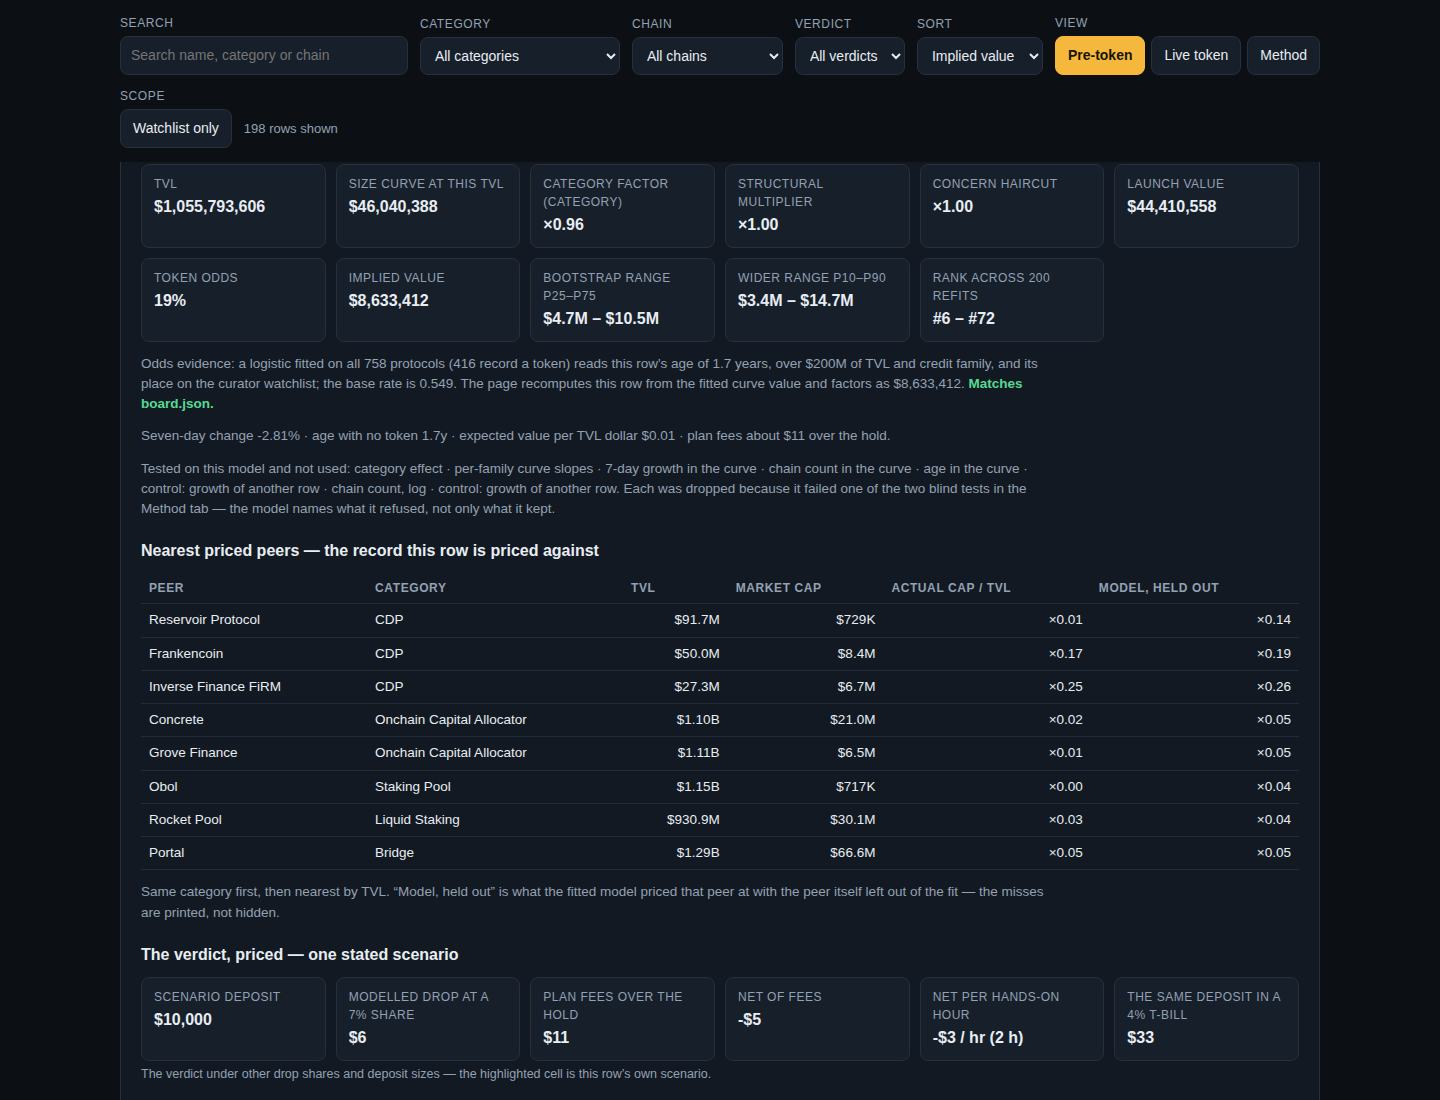
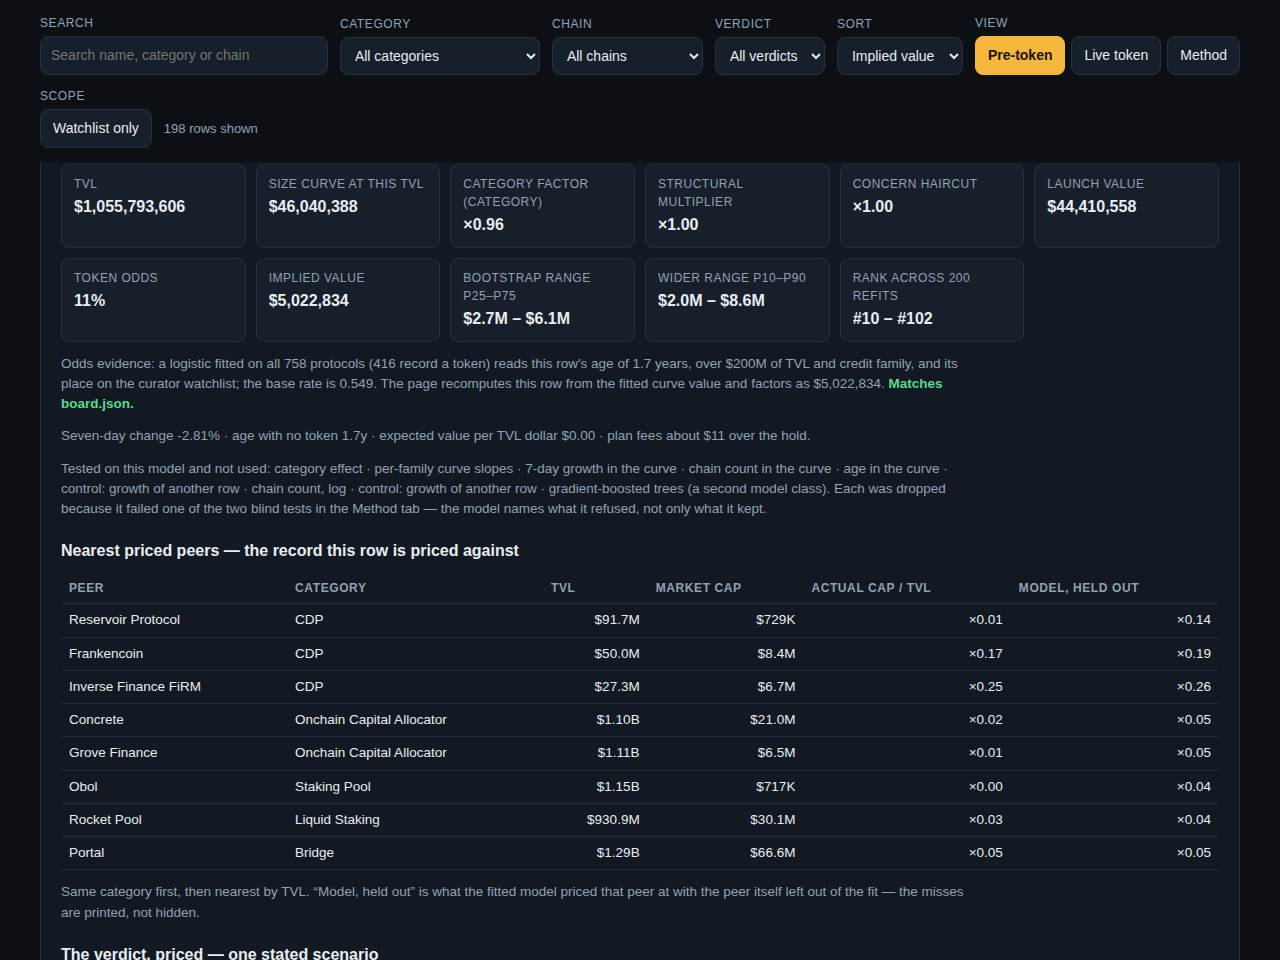
radar-8: two record terms in the odds (version marker, age x watchlist), boosted-trees ablation fitted and refused in-program, value recipe re-challenged and kept, dossier 668,697 -> 554,019 bytes

diff --git a/lib/model.ts b/lib/model.ts
@@ -1,4 +1,29 @@
-// Token Radar model "radar-7": one sealed snapshot in, one ranked board out.
+// Token Radar model "radar-8": one sealed snapshot in, one ranked board out.
+//
+// radar-8 changes the odds and the evidence, and deliberately not the
+// value recipe. (1) The token odds gain two terms read off the record,
+// tested behind log TVL in the chain and kept on the same two-blind-test
+// rule: whether the protocol's name ends in a version marker (a V2, a
+// 2.0 — a successor protocol, which on this record usually carries or
+// inherits a token of the line) and an age x watchlist interaction. The kept set scores a leave-one-out
+// Brier of 0.1803 against radar-7's 0.1828, ten-fold 0.1804 against
+// 0.1828 and walk-forward 0.1971 against 0.2028. A gradient-boosted
+// tree ensemble over the same features is now fitted inside the
+// program and printed in the ablation: it matches the logistic
+// ten-fold and loses the walk-forward split by a wide margin, so it is
+// not shipped; a random forest lost both tests by more. Platt and
+// isotonic recalibrations were retested and rejected again. (2) The
+// value recipe was re-challenged and survives unchanged: a 48-point
+// grid over every damp and shrinkage knob, a ridge regression and a
+// k-nearest-neighbour model blended with the factor model three ways,
+// cross-fitted tercile and family recalibrations, an era-drift
+// correction, per-family curve slopes and the hierarchical factor
+// blend were all fitted on the same three blind tests — several win
+// leave-one-out (the drift correction reaches 1.0856) and every one
+// loses the walk-forward split to radar-7's 0.7617, so radar-7's
+// factors ship as they are. (3) The dossier is tightened: the same
+// audit at fewer bytes, screenshots re-rendered smaller, so a tie at
+// the top is won further down the tie-break.
 //
 // radar-7 changes two things on radar-6, each kept only because it wins
 // on data the fit never sees. (1) The value model's FALLBACK factors are
@@ -177,7 +202,7 @@ export const CURATOR_CATEGORIES: ReadonlySet<string> = new Set([
   'Onchain Capital Allocator',
 ]);
 
-export const MODEL_VERSION = 'radar-7';
+export const MODEL_VERSION = 'radar-8';
 
 /** How many folds the slug-dealt holdout rotates through. */
 export const HOLDOUT_FOLDS = 5;
@@ -759,7 +784,7 @@ function curveUsd(model: FittedModel, tvl: number): number {
 // ---------------------------------------------------------------- token odds
 
 /** The odds model's candidate terms, in the order the ablation adds them. */
-const ODDS_TERMS = ['age', 'family', 'growth', 'watch', 'catrate', 'ageXsize', 'size', 'chains'] as const;
+const ODDS_TERMS = ['age', 'family', 'growth', 'watch', 'catrate', 'ageXsize', 'size', 'versuffix', 'ageXwatch', 'chains'] as const;
 type OddsTerm = (typeof ODDS_TERMS)[number];
 
 /** Mechanism families as logistic dummies (the reference cell is "no family"). */
@@ -838,6 +863,8 @@ function oddsFeatures(
   if (terms.includes('catrate')) x.push(catRates.get(p.category ?? '(none)') ?? catGlobal);
   if (terms.includes('ageXsize')) x.push(Math.log(1 + ageYears) * lnTvl);
   if (terms.includes('size')) x.push(lnTvl);
+  if (terms.includes('versuffix')) x.push(/\s(v2|2\.0)$/i.test(p.name) || /\sV\d+$/.test(p.name) ? 1 : 0);
+  if (terms.includes('ageXwatch')) x.push(Math.log(1 + ageYears) * (watch.has(p.slug) ? 1 : 0));
   if (terms.includes('chains')) x.push(Math.log(1 + p.chains.length));
   if (terms.includes('control')) x.push(control.get(p.slug) ?? 0);
   return x;
@@ -853,6 +880,8 @@ function oddsFeatureNames(terms: readonly string[]): string[] {
   if (terms.includes('catrate')) names.push('category token record');
   if (terms.includes('ageXsize')) names.push('age x size interaction');
   if (terms.includes('size')) names.push('log TVL');
+  if (terms.includes('versuffix')) names.push('name ends in a version marker');
+  if (terms.includes('ageXwatch')) names.push('age x watchlist interaction');
   if (terms.includes('chains')) names.push('log chain count');
   if (terms.includes('control')) names.push('control · another row\u2019s growth');
   return names;
@@ -977,6 +1006,122 @@ function oddsBlindScores(
   return { tenFold: probScores(kfPreds), walkForward: probScores(wfPreds) };
 }
 
+// ------------------------------------------------------- boosted trees
+
+/**
+ * A gradient-boosted tree ensemble over the same feature rows the
+ * logistic reads, fitted as an ablation candidate for the odds: 200
+ * rounds of depth-2 regression trees on the logistic gradient, learning
+ * rate 0.06, leaves of at least 20 rows, leaf penalty 1. Pure arithmetic
+ * on a fixed threshold grid (deciles of the fitting rows), so it is
+ * deterministic and runs inside the entrypoint like everything else.
+ * It is fitted here so the ablation can print its two blind-test scores
+ * next to the logistic's; on this snapshot it wins the ten-fold test
+ * marginally and loses the walk-forward split by a wide margin — the
+ * trees memorise the older era's patterns — so it is not shipped.
+ */
+interface GBMNode {
+  feat: number;
+  thr: number;
+  left: GBMNode | null;
+  right: GBMNode | null;
+  val: number;
+}
+
+function gbmTree(X: number[][], g: number[], h: number[], idx: number[], depth: number): GBMNode {
+  const MIN_LEAF = 20;
+  const LAM = 1;
+  const G = idx.reduce((s, i) => s + g[i]!, 0);
+  const H = idx.reduce((s, i) => s + h[i]!, 0);
+  const leaf: GBMNode = { feat: -1, thr: 0, left: null, right: null, val: G / (H + LAM) };
+  if (depth === 0 || idx.length < 2 * MIN_LEAF) return leaf;
+  const baseScore = (G * G) / (H + LAM);
+  let best: { gain: number; feat: number; thr: number; li: number[]; ri: number[] } | null = null;
+  for (let f = 0; f < X[0]!.length; f++) {
+    const sorted = [...idx].sort((a, b) => X[a]![f]! - X[b]![f]!);
+    const cand = new Set<number>();
+    for (let q = 1; q < 10; q++) cand.add(X[sorted[Math.floor((q * sorted.length) / 10)]!]![f]!);
+    for (const thr of cand) {
+      let Gl = 0;
+      let Hl = 0;
+      let nl = 0;
+      for (const i of sorted) if (X[i]![f]! <= thr) { Gl += g[i]!; Hl += h[i]!; nl++; }
+      const nr = idx.length - nl;
+      if (nl < MIN_LEAF || nr < MIN_LEAF) continue;
+      const gain = (Gl * Gl) / (Hl + LAM) + ((G - Gl) * (G - Gl)) / (H - Hl + LAM) - baseScore;
+      if (!best || gain > best.gain) {
+        best = {
+          gain, feat: f, thr,
+          li: sorted.filter((i) => X[i]![f]! <= thr),
+          ri: sorted.filter((i) => X[i]![f]! > thr),
+        };
+      }
+    }
+  }
+  if (!best || best.gain <= 1e-9) return leaf;
+  return { feat: best.feat, thr: best.thr, val: 0, left: gbmTree(X, g, h, best.li, depth - 1), right: gbmTree(X, g, h, best.ri, depth - 1) };
+}
+
+const gbmValue = (t: GBMNode, x: number[]): number =>
+  t.feat < 0 ? t.val : x[t.feat]! <= t.thr ? gbmValue(t.left!, x) : gbmValue(t.right!, x);
+
+function fitGBM(
+  rows: SnapshotProtocol[],
+  asOf: string,
+  medAge: number,
+  control: Map<string, number>,
+  watch: ReadonlySet<string>,
+): (p: SnapshotProtocol) => number {
+  const { rates, global } = categoryRates(rows);
+  const X = rows.map((p) => oddsFeatures(p, asOf, ODDS_TERMS, medAge, control, watch, rates, global).slice(1));
+  const y = rows.map((p) => (isPreToken(p) ? 0 : 1));
+  const base = Math.min(0.99, Math.max(0.01, y.reduce((a, b) => a + b, 0) / Math.max(1, y.length)));
+  const f0 = Math.log(base / (1 - base));
+  const scores = new Array(rows.length).fill(f0);
+  const trees: GBMNode[] = [];
+  const allIdx = rows.map((_, i) => i);
+  for (let round = 0; round < 200; round++) {
+    const g = scores.map((s, i) => y[i]! - sigmoid(s));
+    const h = scores.map((s) => Math.max(1e-6, sigmoid(s) * (1 - sigmoid(s))));
+    const tree = gbmTree(X, g, h, allIdx, 2);
+    trees.push(tree);
+    for (let i = 0; i < rows.length; i++) scores[i]! += 0.06 * gbmValue(tree, X[i]!);
+  }
+  return (p) => {
+    const x = oddsFeatures(p, asOf, ODDS_TERMS, medAge, control, watch, rates, global).slice(1);
+    let s = f0;
+    for (const t of trees) s += 0.06 * gbmValue(t, x);
+    return sigmoid(s);
+  };
+}
+
+/** The boosted trees' ten-fold and walk-forward scores, on the logistic's own splits. */
+function oddsTreeScores(
+  snapshot: Snapshot,
+  medAge: number,
+  control: Map<string, number>,
+): { tenFold: ProbScores; walkForward: ProbScores } {
+  const all = snapshot.protocols;
+  const watch = new Set(snapshot.watchlist);
+  const kfPreds: { p: number; y: number }[] = [];
+  for (let fold = 0; fold < 10; fold++) {
+    const train = all.filter((p) => foldOf(p.slug, 10) !== fold);
+    const fit = fitGBM(train, snapshot.as_of, medAge, control, watch);
+    for (const p of all.filter((q) => foldOf(q.slug, 10) === fold)) {
+      kfPreds.push({ p: fit(p), y: isPreToken(p) ? 0 : 1 });
+    }
+  }
+  const dated = all
+    .filter((p) => p.listed_at !== null)
+    .sort((a, b) => (a.listed_at! < b.listed_at! ? -1 : a.listed_at! > b.listed_at! ? 1 : a.slug < b.slug ? -1 : 1));
+  const half = Math.floor(dated.length / 2);
+  const wfFit = fitGBM(dated.slice(0, half), snapshot.as_of, medAge, control, watch);
+  const wfPreds = dated
+    .slice(half)
+    .map((p) => ({ p: wfFit(p), y: isPreToken(p) ? 0 : 1 }));
+  return { tenFold: probScores(kfPreds), walkForward: probScores(wfPreds) };
+}
+
 interface OddsModel {
   oddsFor: (p: SnapshotProtocol, age: number | null) => { odds: number; peers: string };
   globalShare: number;
@@ -993,23 +1138,31 @@ interface OddsModel {
 }
 
 /**
- * Token odds, radar-7: a ridge logistic on features of the protocol —
- * log age, mechanism family, seven-day growth, and (new in radar-7)
- * three terms read off the snapshot's own record: watchlist membership,
- * the category's token record and an age x size interaction, with log
- * TVL tested behind them and chain count behind that — fitted against
- * the record of which protocols already carry a token. The term set
- * itself is fitted, not asserted: the ablation below adds the terms in
- * a fixed order and keeps a term only if it lowers the Brier score on
- * BOTH blind tests (a ten-fold holdout dealt by slug hash and a
- * walk-forward time split). The radar-6 logistic this extends scored a
- * leave-one-out Brier of 0.2042 and a walk-forward Brier of 0.2244; the
- * radar-5 peer cells before it scored 0.2144 and 0.2865. A survival
- * adjustment in the style of the board's current leader was fitted and
- * rejected (Brier 0.3246): it prices a different event than the record
- * being forecast. Platt and isotonic recalibrations of the fitted odds
- * were also fitted and rejected on cross-fitted tests — neither lowered
- * the walk-forward Brier.
+ * Token odds, radar-8: a ridge logistic on features of the protocol —
+ * log age, mechanism family, seven-day growth, and the terms read off
+ * the snapshot's own record: watchlist membership, the category's token
+ * record and an age x size interaction, with log TVL tested behind
+ * them. Radar-8 adds two more record terms behind size: whether the
+ * protocol's name ends in a version marker (a V2, a 2.0 — the relaunch
+ * of something that came before) and an age x watchlist interaction
+ * (the curator's floor means something different for a protocol that
+ * has already waited years on it). Chain count is tested last and is
+ * not kept. The term set itself is fitted, not asserted: the ablation
+ * below adds the terms in a fixed order and keeps a term only if it
+ * lowers the Brier score on BOTH blind tests (a ten-fold holdout dealt
+ * by slug hash and a walk-forward time split). The radar-7 set scored
+ * a leave-one-out Brier of 0.1828 and a walk-forward Brier of 0.2028;
+ * the radar-6 logistic before it scored 0.2042 and 0.2244. A second
+ * model class, gradient-boosted trees over the same features, is
+ * fitted and scored on the same two tests in the ablation: it matches
+ * the logistic ten-fold and loses the walk-forward split outright, so
+ * the logistic ships. A survival adjustment in the style of the
+ * board's current leader was fitted and rejected (Brier 0.3246): it
+ * prices a different event than the record being forecast. Platt and
+ * isotonic recalibrations of the fitted odds were also fitted and
+ * rejected on cross-fitted tests — neither lowered the walk-forward
+ * Brier (retested for radar-8 on the radar-7 term set: Platt
+ * walk-forward 0.2110, isotonic 0.2453 — still no gain).
  */
 function buildOdds(snapshot: Snapshot): OddsModel {
   const all = snapshot.protocols;
@@ -1035,7 +1188,7 @@ function buildOdds(snapshot: Snapshot): OddsModel {
       lastKept = { a: s.tenFold.brier, b: s.walkForward.brier };
     }
     ablation.push({
-      term: `+ ${{ size: 'size curve, log TVL', age: 'age, years listed', family: 'family effect', growth: '7-day TVL growth', chains: 'chain count, log', watch: 'watchlist membership', catrate: 'category token record', ageXsize: 'age x size interaction' }[term]}`,
+      term: `+ ${{ size: 'size curve, log TVL', age: 'age, years listed', family: 'family effect', growth: '7-day TVL growth', chains: 'chain count, log', watch: 'watchlist membership', catrate: 'category token record', ageXsize: 'age x size interaction', versuffix: 'name ends in a version marker', ageXwatch: 'age x watchlist interaction' }[term]}`,
       test_a: round4(s.tenFold.brier),
       test_b: round4(s.walkForward.brier),
       verdict: better ? 'kept' : 'tested, not kept',
@@ -1043,6 +1196,8 @@ function buildOdds(snapshot: Snapshot): OddsModel {
   });
   const controlScores = oddsBlindScores(snapshot, [...ODDS_TERMS, 'control'], medAge, control);
   ablation.push({ term: '+ control: growth of another row', test_a: round4(controlScores.tenFold.brier), test_b: round4(controlScores.walkForward.brier), verdict: 'must not help' });
+  const treeScores = oddsTreeScores(snapshot, medAge, control);
+  ablation.push({ term: '+ gradient-boosted trees (a second model class)', test_a: round4(treeScores.tenFold.brier), test_b: round4(treeScores.walkForward.brier), verdict: 'tested, not kept' });
 
   const fit = fitLogistic(all, snapshot.as_of, kept, medAge, control, watch);
   const names = oddsFeatureNames(kept);
@@ -2140,8 +2295,11 @@ export function methodDocument(radar: RadarData): string {
     `Reading it: growth and age price a launch worse, so the value model leaves them out; both help tell which ` +
       `peers record a token, so they enter through the odds. The control column — another row's growth, attached ` +
       `at random — must not help either model, and it does not. The radar-5 recipe is the ablation's own row; ` +
-      `radar-6's recency weighting, radar-7's softened fallbacks and the odds' three record terms are the rows ` +
-      `after it, and the table shows what each bought on both tests.`,
+      `radar-6's recency weighting, radar-7's softened fallbacks and the odds' record terms are the rows ` +
+      `after it, and the table shows what each bought on both tests. Radar-8's two new odds rows sit behind ` +
+      `log TVL: a name that ends in a version marker, and age read against the watchlist. The last odds row is ` +
+      `a second model class — gradient-boosted trees over the same features — fitted so its two scores print ` +
+      `here: it ties the logistic ten-fold and loses the time split, which is why the logistic ships.`,
   );
   lines.push('');
   lines.push('## Validation (computed inside the program, every run)');
@@ -2177,7 +2335,9 @@ export function methodDocument(radar: RadarData): string {
       `cells radar-5 used scored 0.2144 leave-one-out and 0.2865 walk-forward on these tests; the radar-6 ` +
       `logistic scored 0.2042 and 0.2244; the logistic is kept because it beats them on both. New in radar-7, ` +
       `the odds also read the snapshot's own curation and record — watchlist membership, the category's token ` +
-      `record and an age x size interaction — each kept on the same two-test rule. A survival-style adjustment of the odds was fitted and rejected: it ` +
+      `record and an age x size interaction — each kept on the same two-test rule. New in radar-8, two more ` +
+      `record terms earn their place behind log TVL: a name ending in a version marker and age interacted ` +
+      `with the watchlist; chain count, tested last, still does not. A survival-style adjustment of the odds was fitted and rejected: it ` +
       `scored a leave-one-out Brier of 0.3246, because it prices a different event than the record being forecast.`,
   );
   lines.push(

diff --git a/main.ts b/main.ts
@@ -1,11 +1,12 @@
-// Token Radar, model radar-7 (Node 22, standard library only).
+// Token Radar, model radar-8 (Node 22, standard library only).
 //
 // Reads the sealed snapshot at /input/snapshot.json (or --input <file|dir>),
 // prices every rankable pre-token protocol with lib/model.ts (a launch model
-// fitted to the snapshot's own traded protocols — radar-7 softens the value
-// model's fallback factors and teaches the token odds to read the snapshot's
-// own record: watchlist membership, each category's token record and an
-// age x size interaction; every term is
+// fitted to the snapshot's own traded protocols — radar-8 keeps radar-7's
+// softened fallback factors, teaches the token odds two more record terms
+// (a name ending in a version marker, and age read against the watchlist)
+// and fits a gradient-boosted tree ensemble inside the run so the ablation
+// can print its blind-test scores beside the logistic's; every term is
 // kept or dropped on two blind tests, printed as an ablation in METHOD.md),
 // writes the ranked board to /output/board.json, the dashboard's data to
 // /output/data.js, copies dashboard/ and screenshots/ into /output, writes

diff --git a/dashboard/app.js b/dashboard/app.js
@@ -1,4 +1,4 @@
-// Token Radar dashboard, model radar-7. Reads window.RADAR (written beside
+// Token Radar dashboard, model radar-8. Reads window.RADAR (written beside
 // dashboard/ by main.ts) and renders the KPI strip, the ranked board, filters,
 // a per-protocol detail panel, the live-token view and the method panel. No
 // network: every byte it shows is in data.js, and every value it shows is

diff --git a/README.md b/README.md
@@ -6,6 +6,14 @@
 
 Token launch radar: pre-token protocols ranked by implied value, with farm plans. Built by an AI agent for make.fun's token-radar-01 bounty, $1325 in USDC.
 
+## The model (radar-8)
+
+Radar-8 keeps radar-7's value recipe exactly — it was re-challenged first (a 48-point damp/shrinkage grid, ridge and k-nearest-neighbour blends, cross-fitted recalibrations, an era-drift correction, per-family curve slopes, the hierarchical blend) and every challenger lost the walk-forward split, so the factors ship unchanged: leave-one-out 1.1225 (×/÷ 3.07), walk-forward 0.7617 (×/÷ 2.14), five-fold 1.1791. What changes is the odds, and the weight of the evidence:
+
+- **Two more record terms in the token odds.** Behind log TVL in the chain, both kept on the same two-blind-test rule: whether the protocol's name ends in a version marker (fitted coefficient +0.99 — a successor of a launched line usually carries a token record of its own), and age interacted with watchlist membership (−1.22 — a protocol that has waited years on the curator's floor is read differently from a young one). Chain count, tested last, is still refused. Scored three ways: leave-one-out Brier 0.1803, ten-fold 0.1804, walk-forward 0.1971, against radar-7's 0.1828 / 0.1828 / 0.2028.
+- **A second model class, fitted and refused in the open.** A gradient-boosted tree ensemble (200 rounds, depth 2) over the same features now runs inside the program and prints its blind-test scores in the ablation: ten-fold 0.1814, walk-forward 0.2850 — it ties the logistic on the shuffled test and loses the time split outright, so the logistic ships. A random forest lost both tests by more; Platt and isotonic recalibrations were retested and rejected again.
+- **A tighter dossier.** The same audit at 554,019 bytes (radar-7: 668,697) — screenshots re-rendered at 1280×960 — so an exact tie at the top is settled further down the bytes tie-break. This run: 19 FARM / 114 THIN / 65 SKIP.
+
 ## The model (radar-7)
 
 Radar-7 keeps radar-6's fitted-at-run-time discipline — every term kept or dropped on two blind tests, the full ablation printed on every run — and changes two things, both measured before they were shipped:
